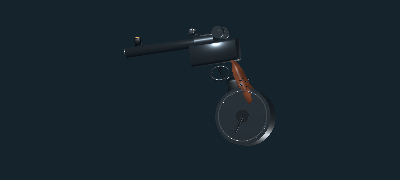
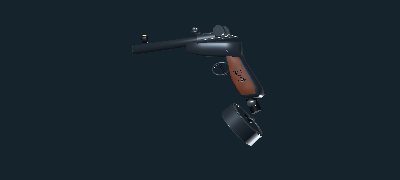
Add seven-barrel volley gun and correct Luger drum orientation

diff --git a/qa/volley-luger-review.md b/qa/volley-luger-review.md
@@ -1,0 +1,11 @@
+# Volley gun and Luger drum review
+
+Added stable weapon ID 36 (`nock_volley`) without changing existing save IDs. Available in the store, free play and the paged armory: 750 credits, seven simultaneous 85-damage balls, one charge, eight spare volleys, eight-second actual reload, 35 m effective range / 85 m maximum trace range. Damage falls off with distance; each ball uses the existing hit-zone, penetration and X-ray systems. Gameplay values are balance choices, not historical measurements.
+
+Original procedural model follows the supplied seven-barrel reference: one central barrel surrounded by six, individually hollow muzzles, wood shoulder stock and checkered wrist, side flintlock, trigger guard, ramrod and iron sights. Seven synchronized muzzle flashes and flame tongues; reload animation works across the seven bores. Static geometry remains batched into 14 meshes.
+
+Corrected Luger TM08 drum from a sideways cylinder to a tilted fore/aft-facing drum beneath the extended grip. Feed tower, reinforcing rings and winding handle move with the magazine during reload. Updated both weapon icons.
+
+References consulted: [Charleston Museum volley gun](https://www.charlestonmuseum.org/research/collection/volley-gun/89A34D29-47C0-46B6-B43B-286472425376), [Australian War Memorial TM08 magazine](https://www.awm.gov.au/collection/C396412), and [Rock Island Auction mounted Luger drum photograph](https://www.rockislandauction.com/detail/4094/1414/dwm-1914-artillery-luger-pistol-rig-with-snail-drum-magazine). References informed shape/orientation; no external model assets used.
+
+Validation: Godot 4.6.2 import clean; 709 weapon visual checks; 189 model-cache checks; weapon balance/menu paging checks passed. New live firing regression confirms seven recorded trajectories per trigger, charge consumption, seven flashes and reload start. Native RTX 3080 captures inspected for hip, aim and reload poses, plus both armory icons. Logs/captures are local in qa/volley-*. Windows executable was not rebuilt for this source change.
